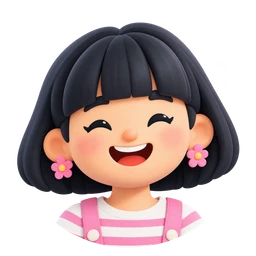
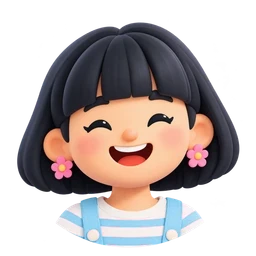
似た顔アイコン3組を服の色で見分けられるようにする
face-11/19（黒髪・眼鏡・黒い服）、face-06/18（茶色の長髪・紫の服）、
face-04/12（黒いボブ・ピンクの服）が並ぶと取り違えやすかった。
face-12・18・19 の服の色だけを塗り替え、ID と顔・髪はそのままにする。

Loop: build
Risk: R0
Closes #933

Changed region(s): [[0.2188, 0.75, 0.7812, 0.9688]]

diff --git a/public/avatars/README.md b/public/avatars/README.md
@@ -8,3 +8,5 @@ PBI #750 / Task #869 の採用案「Soft Pop Crew」を参照し、組込みの 
 - 表示: 待機画面・参加者一覧・発表者などで共通利用する。名前と接続・完了状態は画像と別に表示する。
 
 生成指示は、採用した人物ごとの髪型・表情・服装を保持し、丸いマットな3D調、正面中心、1画像1人、文字・背景・枠なしとした。原寸PNGから縦横比とアルファを保って縮小・WebP化している。
+
+似た絵の取り違えを避けるため（#933）、`face-12`（縞の服を水色に）、`face-18`（パーカーを赤に）、`face-19`（タートルネックを緑に）は服の色だけを塗り替えている。顔・髪・ID は生成時のまま。
